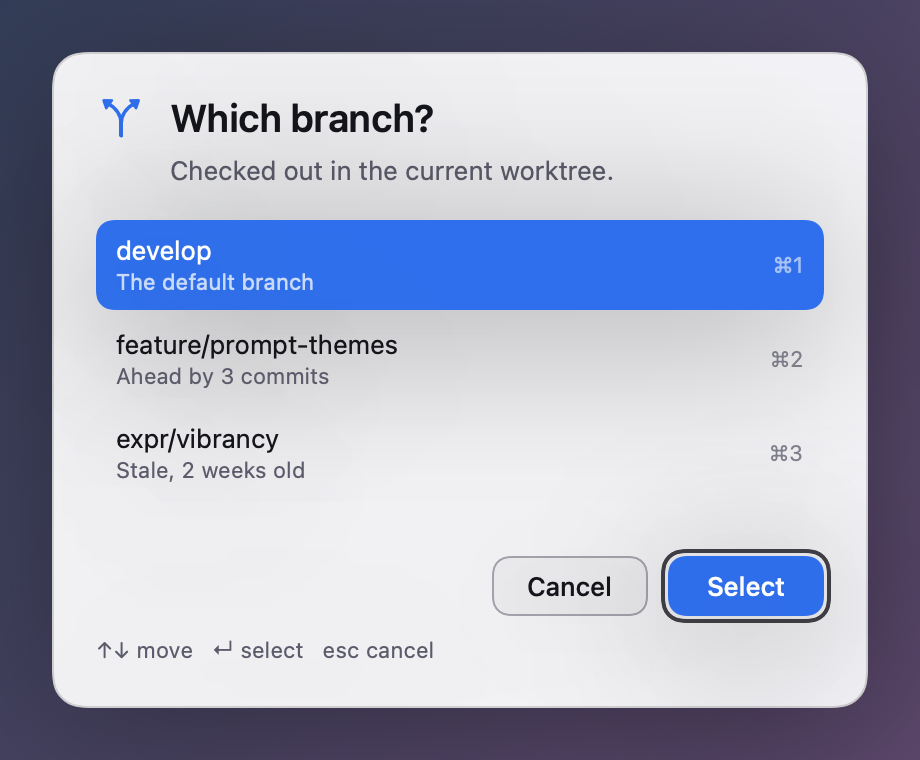
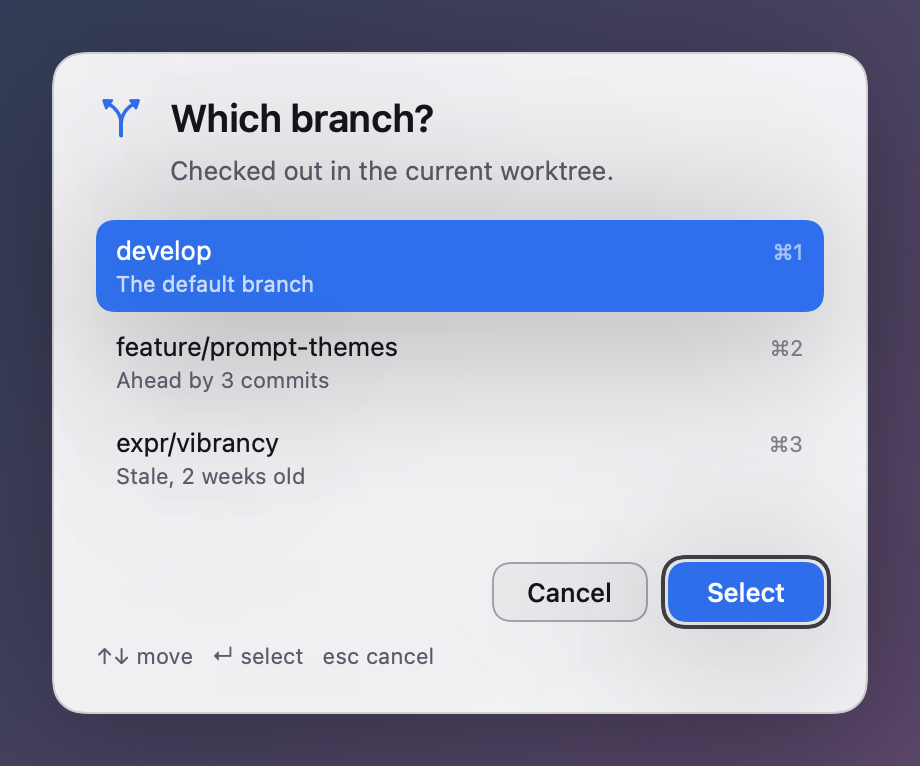
fix: option labels wrap instead of truncating
ChoiceRow hard-limited the value to one line, so "Yes, this key for
git.onewheelgeek.net — this session" rendered as "…— this…" and the option
could not be read, let alone told apart from the three beside it.

Labels now wrap to three lines and details to two, after which the list
scrolls — capped so one pathological option (someone piping in a whole SSH
key) cannot push every other row off the panel. Rows align on the first text
baseline and the ⌘-digit badges get a fixed column, so they stay in line down
the right edge however tall the rows are.

The gallery keeps the prompt that exposed this — an SSH agent asking for
approval — as a sample, so the next layout change is checked against real
labels rather than three-word ones.

Claude-Session: https://claude.ai/code/session_014RWvLXBQP12L9vurumhLLs

diff --git a/Sources/PrettyPromptKit/UI/ChooseView.swift b/Sources/PrettyPromptKit/UI/ChooseView.swift
@@ -269,30 +269,46 @@ private struct ChoiceRow: View {
     /// True when --limit is reached and this row cannot be added.
     let isDimmed: Bool
 
+    /// Wrapping is capped so one pathological option — someone piping in a
+    /// whole SSH key — cannot push every other row off the panel. The list
+    /// scrolls past that.
+    private static let valueLineLimit = 3
+    private static let detailLineLimit = 2
+
     var body: some View {
-        HStack(alignment: .center, spacing: 9) {
+        HStack(alignment: .firstTextBaseline, spacing: 9) {
             if showsCheckbox {
                 Image(systemName: isChecked ? "checkmark.square.fill" : "square")
                     .font(.system(size: 13))
                     .foregroundStyle(checkboxColor)
             }
-            VStack(alignment: .leading, spacing: 1) {
+            VStack(alignment: .leading, spacing: 2) {
+                // Options wrap rather than truncate. An option you cannot read
+                // is an option you cannot choose, and real callers pass things
+                // like "Yes, this key for git.example.net — this session".
                 Text(option.value)
                     .font(ui.bodyFont)
                     .foregroundStyle(primaryColor)
-                    .lineLimit(1)
+                    .lineLimit(Self.valueLineLimit)
+                    .multilineTextAlignment(.leading)
+                    .fixedSize(horizontal: false, vertical: true)
                 if let detail = option.detail {
                     Text(detail)
                         .font(ui.captionFont)
                         .foregroundStyle(secondaryColor)
-                        .lineLimit(1)
+                        .lineLimit(Self.detailLineLimit)
+                        .multilineTextAlignment(.leading)
+                        .fixedSize(horizontal: false, vertical: true)
                 }
             }
-            Spacer(minLength: 8)
+            .frame(maxWidth: .infinity, alignment: .leading)
             if let shortcut {
                 Text("⌘\(shortcut)")
                     .font(ui.captionFont)
                     .foregroundStyle(secondaryColor.opacity(0.75))
+                    // Fixed so the badges line up down the right edge however
+                    // wide the labels are.
+                    .frame(width: 22, alignment: .trailing)
             }
         }
         .padding(.horizontal, 10)

diff --git a/Sources/PrettyPromptKit/UI/Gallery.swift b/Sources/PrettyPromptKit/UI/Gallery.swift
@@ -101,6 +101,41 @@ public enum Gallery {
                     theme: theme, width: 460)
             ),
 
+            // A real caller's prompt (an SSH agent asking for approval), kept as
+            // a sample because its option labels are long enough to have
+            // exposed the row-truncation bug.
+            (
+                "long-labels",
+                PromptSpec(
+                    title: "devtun — ssh agent",
+                    message: """
+                        `bedev` is asking for:
+
+                        ssh-rsa SHA256:01tagjHSHRivNwXVT1m8YdyAFc8c8fkFDvvG+usELs4 → git.onewheelgeek.net
+                        """,
+                    icon: "🔒",
+                    kind: .choose(
+                        ChooseSpec(
+                            options: [
+                                ChoiceOption(rawValue: "Yes, once"),
+                                ChoiceOption(
+                                    rawValue: "Yes, this key for git.onewheelgeek.net — 5m0s"),
+                                ChoiceOption(
+                                    rawValue:
+                                        "Yes, this key for git.onewheelgeek.net — this session"),
+                                ChoiceOption(
+                                    rawValue: "Yes, this key for git.onewheelgeek.net — always"),
+                                ChoiceOption(rawValue: "Yes to anything from bedev — 5m0s"),
+                                ChoiceOption(rawValue: "Yes to anything from bedev — this session"),
+                                ChoiceOption(rawValue: "No, and stop asking this session"),
+                                ChoiceOption(
+                                    rawValue:
+                                        "Never, this key for git.onewheelgeek.net (write to config)"
+                                ),
+                            ], preselected: [2])),
+                    theme: BuiltInThemes.danger, width: 460)
+            ),
+
             (
                 "input",
                 PromptSpec(

diff --git a/README.md b/README.md
@@ -84,6 +84,14 @@ printf 'prod\tRestarts 3 services\nstaging\tSafe\n' | prettyprompt choose "Where
 Lists longer than seven rows get a filter field and scroll; shorter lists don't.
 `⌘1`…`⌘9` jump straight to a row.
 
+Long labels wrap rather than truncate — up to three lines, after which the list
+scrolls. If you'd rather have the room than the wrapping, widen the panel with
+`--width`.
+
+<p align="center">
+  <img src="docs/gallery/prompt-long-labels.png" width="420" alt="A choose prompt with long option labels">
+</p>
+
 ### `choose --multiple` — pick several
 
 Prints one value per line.
